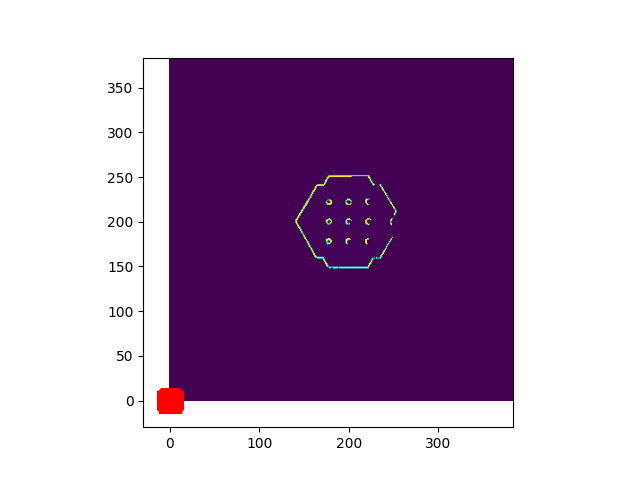
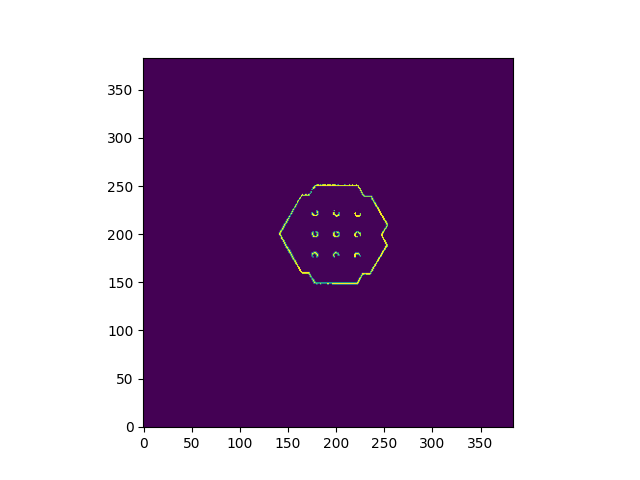
add cost map inflation

Changed region(s): [[0.1562, 0.125, 0.8125, 0.9375], [0.4375, 0.3438, 0.625, 0.5938]]

diff --git a/catkin_ws/src/exploration/src/search_and_rescue_twice.py b/catkin_ws/src/exploration/src/search_and_rescue_twice.py
@@ -16,7 +16,6 @@ import actionlib
 
 import cv2 as cv
 
-from copy import deepcopy
 
 from move_base_msgs.msg import MoveBaseAction, MoveBaseGoal
 
@@ -52,10 +51,6 @@ class SearchAndRescue:
         self.map_sub = rospy.Subscriber('/map', OccupancyGrid,self.set_map)
         self.rot_pub = rospy.Publisher('/cmd_vel', Twist, queue_size=10)
         self.exp_stop_sub = rospy.Subscriber("/exploration_stop_flag",Bool,self.start_search_and_rescue)
-
-        rospy.sleep(2)
-        self.goal_queue = [goal_pt.reshape(-1,2) for goal_pt in self.grid_map(self.map_grid)]
-
         # self.goal_and_rotate(-10,-10)
         
         # self.rot_sub = rospy.Subscriber('/cmd_vel_middle', Twist, self.send_rotation, queue_size=1)
@@ -79,12 +74,11 @@ class SearchAndRescue:
     def start_search_and_rescue(self,bool_msg):
         bool_flag = bool_msg.data
         print("HOWDY",bool_flag)
-        
+
 
         if bool_flag:
             self.goal_queue = [goal_pt.reshape(-1,2) for goal_pt in self.grid_map(self.map_grid)]
             self.create_goal_queue = True
-            print(self.goal_queue)
 
             while len(self.goal_queue) != 0:
                 current_goal = self.goal_queue.pop().ravel()
@@ -98,74 +92,31 @@ class SearchAndRescue:
     def set_map(self,map):
         self.map_grid_width = map.info.width
         self.map_grid_height = map.info.height
-
-        print(map.info.width,map.info.width)
-
         self.map_grid = np.reshape(map.data,(self.map_grid_height,self.map_grid_width))
-        self.map_dims = (int(self.map_grid_width),int(self.map_grid_width))
 
-        # import matplotlib.pyplot as plt
-        # plt.imshow(self.map_grid,origin="lower")
-        # plt.savefig("random.png")
+
+        import matplotlib.pyplot as plt
+        plt.imshow(self.map_grid,origin="lower")
+        plt.savefig("random.png")
 
     def grid_map(self,map_grid):
         width,height = map_grid.shape
-        print(width,height)
-        # dense_idx = np.mgrid[0:height,0:width]
+        dense_idx = np.mgrid[0:height,0:width]
 
-        # sparse_idx = dense_idx[:,::10,::10]
+        sparse_idx = dense_idx[:,::10,::10]
 
-        # goal_pts = map_grid[sparse_idx[0].ravel(),sparse_idx[1].ravel()]
-        xmin,xmax = -height//2 * self.map_resolution,height//2 *self.map_resolution
-        ymin,ymax = -width//2 * self.map_resolution,width//2 * self.map_resolution
+        map_grid = cv.blur(map_grid,(15,15))
+
+        goal_pts = map_grid[sparse_idx[0].ravel(),sparse_idx[1].ravel()]
 
 
-        xs,ys = np.linspace(xmin,xmax,25),np.linspace(ymin,ymax,25)
-        xs,ys = np.meshgrid(xs,ys)
-        pos_in_W = np.column_stack((xs.ravel(),ys.ravel()))
+        valid_goal_pts = goal_pts == 0
 
-        map_indices,valid_idx = self.world_coordinates_to_map_indices(pos_in_W)
+        valid_map_indices = np.column_stack((sparse_idx[0].ravel()[valid_goal_pts],sparse_idx[1].ravel()[valid_goal_pts]))
 
-        map_grid = self.inflate_map(map_grid,radius=0.2)
-
-        # import matplotlib.pyplot as plt
-        # plt.imshow(self.map_grid,origin="lower")
-        # plt.savefig("random.png")
-
-        valid_map_indices  = map_indices[valid_idx]
-
-        free = map_grid[valid_map_indices[:,0],valid_map_indices[:,1]]
-
-        search_indices = valid_map_indices[free==0]
-
-        pos_in_W = self.map_indices_to_world_coordinates(search_indices)
+        pos_in_W = self.map_indices_to_world_coordinates(valid_map_indices)
 
         return pos_in_W
-
-    def inflate_map(self,map_grid,radius=0.1):
-        cell_inflation = int(np.ceil(radius/self.map_resolution))
-        
-        row,col = map_grid.shape
-
-        map_grid_inflated = deepcopy(map_grid)
-        for i in range(row):
-            for j in range(col):
-                occupied = (self.map_grid[i,j] != 0) and (self.map_grid[i,j] != -1)
-
-                if occupied:
-                    min_i = max(0,i-cell_inflation)
-                    min_j = max(0,j-cell_inflation)
-
-                    max_i = min(row-1,i+cell_inflation)
-                    max_j = min(col-1,j+cell_inflation)
-
-                    map_grid_inflated[min_i:max_i,min_j:max_j] = 100
-        
-
-        import matplotlib.pyplot as plt
-        plt.imshow(map_grid_inflated,origin="lower")
-        plt.savefig("random_inflated_house.png")
-        return map_grid_inflated
 
         
     def send_goal(self, goal):
@@ -189,8 +140,8 @@ class SearchAndRescue:
     
         StartTime = rospy.Time.now()
         EndTime = StartTime + rospy.Duration(20)
-        print("Rotating to search for tags.")
         while rospy.Time.now() <= EndTime:
+            print("Rotating to search for tags.")
             self.rot_pub.publish(msg_new)
             rospy.sleep(0.1) 
 
@@ -262,8 +213,8 @@ class SearchAndRescue:
         x_ind = ind_in_G[:,[0]]
         y_ind = ind_in_G[:,[1]]
         
-        pos_in_W_x = (self.world_origin_x - self.world_height) + x_ind * self.map_resolution
-        pos_in_W_y = (self.world_origin_y - self.world_width) + y_ind * self.map_resolution
+        pos_in_W_x = (self.world_origin_x - self.world_width) + y_ind * self.map_resolution
+        pos_in_W_y = (self.world_origin_y + self.world_height) - x_ind * self.map_resolution
 
         return np.column_stack((pos_in_W_x,pos_in_W_y))
 
